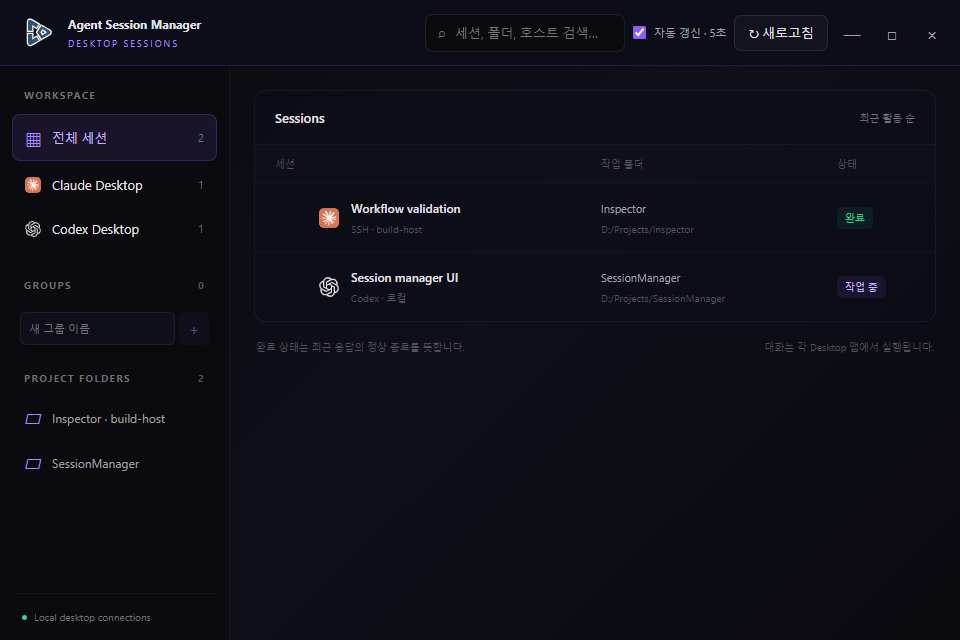
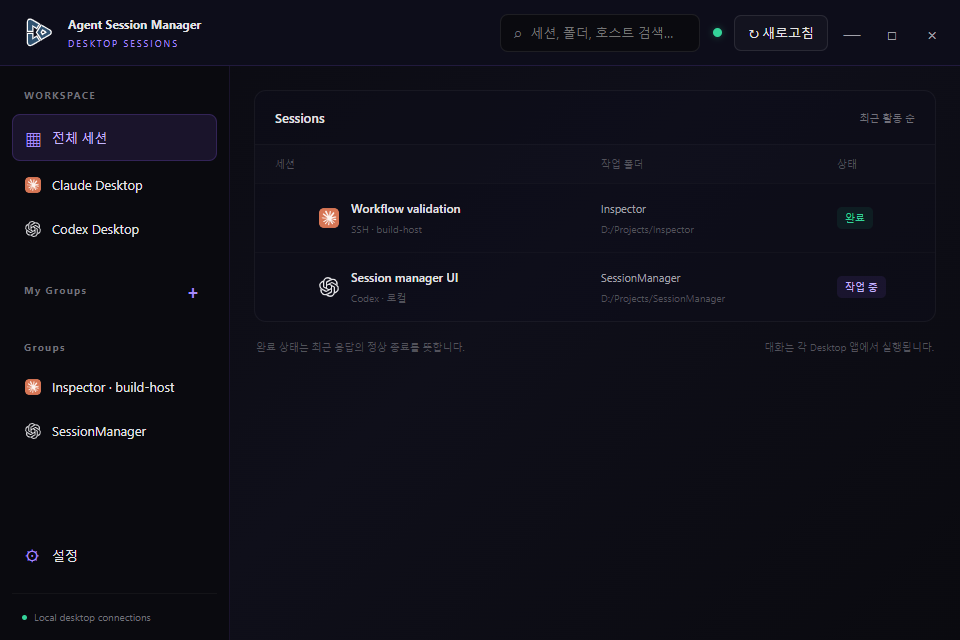
feat(desktop): add refresh settings and independent status LED

diff --git a/frontend/src/DesktopApp.svelte b/frontend/src/DesktopApp.svelte
@@ -30,9 +30,16 @@
   let groupRevision = 0;
   let menuElement: HTMLDivElement;
   let loading = false;
+  let manualRefreshing = false;
   let opening = false;
   let activityLoading = { claude: false, codex: false };
   let autoRefresh = true;
+  let refreshIntervalSeconds = 5;
+  let showSettings = false;
+  let settingsError = '';
+  let mounted = false;
+  let refreshTimer: ReturnType<typeof setInterval> | undefined;
+  const refreshSettingsKey = 'desktop-session-manager.refresh-settings';
   let activities: Record<string, Activity> = {};
   let now = Date.now();
   let groupName = '';
@@ -52,6 +59,24 @@
     return host.go.main.App.Call({ action, ...payload });
   }
 
+  function saveRefreshSettings() {
+    try {
+      localStorage.setItem(refreshSettingsKey, JSON.stringify({ autoRefresh, refreshIntervalSeconds }));
+      settingsError = '';
+    } catch { settingsError = '설정을 저장하지 못했습니다. 현재 창에는 적용되지만 앱을 다시 열면 유지되지 않을 수 있습니다.'; }
+  }
+
+  function updateRefreshInterval(input: HTMLInputElement) {
+    if (!input.reportValidity()) return;
+    refreshIntervalSeconds = input.valueAsNumber;
+    saveRefreshSettings();
+  }
+
+  function configureRefresh(enabled: boolean, seconds: number) {
+    clearInterval(refreshTimer);
+    refreshTimer = enabled ? setInterval(() => void refresh(), seconds * 1000) : undefined;
+  }
+
   function activity(session: Session, timestamp: number): Activity {
     const observed = activities[session.key];
     if (!observed || timestamp / 1000 - observed.observed_at > 15) return { state: 'unknown', detail: '아직 상태를 확인하지 않았거나 마지막 관찰이 15초 이상 지연되었습니다.', observed_at: 0 };
@@ -69,9 +94,10 @@
     finally { activityLoading = { ...activityLoading, [provider]: false }; }
   }
 
-  async function refresh() {
+  async function refresh(manual = false) {
     if (loading) return;
     loading = true;
+    manualRefreshing = manual;
     const revision = groupRevision;
     try {
       const data = await call<Snapshot>('snapshot');
@@ -85,7 +111,7 @@
       void refreshActivities('claude');
       void refreshActivities('codex');
     } catch (failure) { refreshError = `목록 조회 실패: ${String(failure)}`; }
-    finally { loading = false; }
+    finally { loading = false; manualRefreshing = false; }
   }
 
   async function openSession(session: Session) {
@@ -160,7 +186,7 @@
   function updateGroups(updated: Group[]) { groupRevision += 1; groups = updated; }
 
   function chooseGroup(group: GroupView) {
-    scope = group.id; selectedKey = '';
+    scope = group.id; selectedKey = ''; showSettings = false;
     if (!group.automatic) groupEditName = group.name;
   }
 
@@ -222,12 +248,20 @@
   }).map(session => session.key));
   $: if (query !== lastQuery || scope !== lastScope) { lastQuery = query; lastScope = scope; searchCollapsed = new Set(); }
   $: rows = sessionTreeRows(tree, scopedKeys, query, expandedKeys, searchCollapsed, projectNames);
+  $: refreshFailed = !!refreshError || !!groupError || !!activityErrors.claude || !!activityErrors.codex || warnings.length > 0;
+  $: refreshStatus = refreshFailed ? '자동 갱신 오류' : '자동 갱신 정상';
+  $: if (mounted) configureRefresh(autoRefresh, refreshIntervalSeconds);
 
   onMount(() => {
+    try {
+      const saved = JSON.parse(localStorage.getItem(refreshSettingsKey) || 'null');
+      if (typeof saved?.autoRefresh === 'boolean') autoRefresh = saved.autoRefresh;
+      if (Number.isInteger(saved?.refreshIntervalSeconds) && saved.refreshIntervalSeconds >= 1 && saved.refreshIntervalSeconds <= 3600) refreshIntervalSeconds = saved.refreshIntervalSeconds;
+    } catch { /* 저장된 설정을 읽지 못하면 기본값을 사용한다. */ }
+    mounted = true;
     void refresh();
     const timer = setInterval(() => { now = Date.now(); }, 1000);
-    const refreshTimer = setInterval(() => { if (autoRefresh) void refresh(); }, 5000);
-    return () => { clearInterval(timer); clearInterval(refreshTimer); };
+    return () => { mounted = false; clearInterval(timer); clearInterval(refreshTimer); };
   });
 </script>
 
@@ -244,8 +278,8 @@
     <div class="brand"><img src={logo} alt="Agent Session Manager" /><div><strong>Agent Session Manager</strong><span>DESKTOP SESSIONS</span></div></div>
     <div class="header-tools" style="--wails-draggable:no-drag">
       <label class="search"><span>⌕</span><input aria-label="세션 검색" bind:value={query} placeholder="세션, 폴더, 호스트 검색…" /></label>
-      <label class="auto-refresh"><input type="checkbox" bind:checked={autoRefresh} /> 자동 갱신 · 5초</label>
-      <button class="refresh" on:click={refresh} disabled={loading}>{loading ? '조회 중…' : '↻ 새로고침'}</button>
+      <span class="refresh-indicator">{#if autoRefresh}<span class="refresh-led" class:failed={refreshFailed} role="img" aria-label={refreshStatus} title={refreshStatus}></span>{/if}</span>
+      <button class="refresh" on:click={() => refresh(true)} disabled={manualRefreshing}>↻ 새로고침</button>
       <button class="window-button" aria-label="최소화" on:click={WindowMinimise}>—</button>
       <button class="window-button" aria-label="최대화" on:click={WindowToggleMaximise}>□</button>
       <button class="window-button close" aria-label="닫기" on:click={Quit}>×</button>
@@ -256,7 +290,7 @@
     <aside>
       <div class="sidebar-label">WORKSPACE</div>
       {#each [['all', '전체 세션'], ['claude', 'Claude Desktop'], ['codex', 'Codex Desktop']] as [id, name]}
-        <button class="nav-row" class:active={scope === id} on:click={() => { scope = id; selectedKey = ''; }}>
+        <button class="nav-row" class:active={!showSettings && scope === id} on:click={() => { scope = id; selectedKey = ''; showSettings = false; }}>
           {#if id === 'all'}<span class="grid-icon">▦</span>{:else}<AgentIcon agent={id} size="sm" />{/if}
           <span>{name}</span>
         </button>
@@ -275,7 +309,7 @@
           {/if}
           <div class="groups-list">
             {#each sectionGroups as group (group.id)}
-              <button class="nav-row group-row" class:active={scope === group.id} data-group-id={group.id} data-group-kind={group.automatic ? 'automatic' : 'user'}
+              <button class="nav-row group-row" class:active={!showSettings && scope === group.id} data-group-id={group.id} data-group-kind={group.automatic ? 'automatic' : 'user'}
                 title={`${group.name} · ${group.hint}`} on:click={() => chooseGroup(group)}
                 on:contextmenu={event => showSessionMenu(event, { kind: 'group', source: group.source })}
                 on:keydown={event => { if (event.key === 'ContextMenu' || (event.shiftKey && event.key === 'F10')) void showSessionMenu(event, { kind: 'group', source: group.source }); }} aria-haspopup="menu">
@@ -285,6 +319,7 @@
           </div>
         </section>
       {/each}
+      <button class="nav-row settings-nav" class:active={showSettings} on:click={() => { showSettings = true; closeSessionMenu(); }}><span class="grid-icon" aria-hidden="true">⚙</span><span>설정</span></button>
       <div class="sidebar-footer"><span class="connection-dot"></span> Local desktop connections</div>
     </aside>
 
@@ -295,6 +330,19 @@
       {#if groupError}<div role="alert" class="banner error">그룹 파일을 읽지 못했습니다. {groupError}</div>{/if}
       {#if warnings.length}<details class="banner warning"><summary>조회 알림 {warnings.length}개</summary>{#each warnings as warning}<p>{warning}</p>{/each}</details>{/if}
       {#if notice}<div role="status" class="banner success">{notice}</div>{/if}
+      {#if showSettings}
+        <section class="settings-panel" aria-labelledby="settings-title">
+          <h2 id="settings-title">설정</h2>
+          <p class="settings-description">자동 갱신 설정은 변경 즉시 적용됩니다.</p>
+          {#if settingsError}<div role="alert" class="banner error">{settingsError}</div>{/if}
+          <div class="settings-card">
+            <h3>자동 갱신</h3>
+            <label class="settings-row" for="auto-refresh"><span>자동 갱신 사용<small>세션 목록과 실행 상태를 주기적으로 갱신합니다.</small></span><input id="auto-refresh" type="checkbox" checked={autoRefresh} on:change={event => { autoRefresh = event.currentTarget.checked; saveRefreshSettings(); }} /></label>
+            <div class="settings-row"><label for="refresh-interval">자동 갱신 주기<small>1~3600초 사이의 정수로 설정합니다.</small></label><div class="interval-input"><input id="refresh-interval" type="number" min="1" max="3600" step="1" required value={refreshIntervalSeconds} on:change={event => updateRefreshInterval(event.currentTarget)} /><span>초</span></div></div>
+            <p class="settings-hint">자동 갱신을 켜면 상단 LED가 초록색으로 유지되며, 조회 오류가 발생하면 빨간색으로 표시됩니다.</p>
+          </div>
+        </section>
+      {:else}
       {#if selectedGroup && !selected}
         <h2 class="selected-group-name">{selectedGroup.name}</h2>
         <form class="group-tools" on:submit|preventDefault={() => groupAction('rename-group', { id: selectedGroup.id, name: groupEditName })}>
@@ -369,6 +417,7 @@
         </section>
       {/if}
       <footer>{activityLoading.claude || activityLoading.codex ? '실행 상태 확인 중…' : '완료 상태는 최근 응답의 정상 종료를 뜻합니다.'}<span>대화는 각 Desktop 앱에서 실행됩니다.</span></footer>
+      {/if}
     </main>
   </div>
   {#if sessionMenu}
@@ -397,7 +446,13 @@
   .new-group { display:flex; margin:8px 8px 0; gap:4px; } .new-group input { width:100%; border:1px solid #ffffff10; border-radius:6px; background:var(--bg-sunken); padding:8px; font-size:11px; } .new-group button { background:rgba(var(--accent-rgb),.12); border:0; border-radius:6px; color:var(--accent-light); padding:0 8px; flex-shrink:0; } summary { cursor:pointer; } .sidebar-footer { margin-top:auto; padding:16px 10px 4px; border-top:1px solid #ffffff0a; color:#71717a; font-size:10px; display:flex; align-items:center; gap:7px; } .connection-dot { width:5px; height:5px; border-radius:50%; background:#34d399; }
   .selected-group-name { margin:0 0 14px; font-size:18px; line-height:1.5; overflow-wrap:anywhere; }
   .group-tools { display:flex; gap:8px; margin-bottom:18px; } .group-tools input { flex:1; min-width:0; background:var(--bg-raised); border:1px solid #ffffff18; padding:8px 12px; border-radius:7px; } .group-tools button,.warning button { background:#ffffff06; border:1px solid #ffffff18; padding:8px 12px; border-radius:7px; } .warning button { margin:8px 0 0 8px; }
-  main { flex:1; min-width:0; overflow-y:auto; padding:32px 34px 16px; } .auto-refresh { display:flex; align-items:center; gap:8px; color:#a1a1aa; font-size:11px; white-space:nowrap; } input[type=checkbox] { accent-color:var(--accent); }
+  main { flex:1; min-width:0; overflow-y:auto; padding:32px 34px 16px; } input[type=checkbox] { accent-color:var(--accent); }
+  .refresh-indicator { display:flex; align-items:center; justify-content:center; width:18px; flex-shrink:0; } .refresh-led { width:9px; height:9px; border-radius:50%; background:#34d399; box-shadow:0 0 7px #34d39966; } .refresh-led.failed { background:#ef4444; box-shadow:0 0 7px #ef444466; }
+  .settings-nav { margin-top:auto; } .settings-nav + .sidebar-footer { margin-top:12px; }
+  .settings-panel { max-width:720px; } .settings-panel h2 { margin:0; font-size:22px; } .settings-description { color:#a1a1aa; margin:10px 0 24px; font-size:12px; }
+  .settings-card { padding:24px; border:1px solid #ffffff12; border-radius:12px; background:rgba(var(--bg-base-rgb),.42); } .settings-card h3 { margin:0 0 8px; font-size:14px; }
+  .settings-row { display:flex; align-items:center; justify-content:space-between; gap:24px; padding:20px 0; border-bottom:1px solid #ffffff0a; } .settings-row small { display:block; margin-top:7px; font-size:11px; color:#a1a1aa; } .settings-row input[type=checkbox] { width:18px; height:18px; flex-shrink:0; cursor:pointer; }
+  .interval-input { display:flex; align-items:center; gap:8px; color:#a1a1aa; } .interval-input input { width:88px; padding:8px 10px; background:var(--bg-sunken); border:1px solid #ffffff20; border-radius:6px; } .interval-input input:invalid { border-color:#ef4444; } .settings-hint { margin:18px 0 0; font-size:11px; line-height:1.7; color:#a1a1aa; }
   .session-panel { border:1px solid #ffffff0c; border-radius:12px; overflow:hidden; background:rgba(var(--bg-base-rgb),.42); } .panel-heading { display:flex; justify-content:space-between; align-items:center; padding:18px 20px; border-bottom:1px solid #ffffff0a; } .panel-heading h2 { font-size:13px; font-weight:600; } .panel-heading > span { font-size:10px; color:#71717a; }
   .nav-row .project-root-hint { display:block; overflow:hidden; text-overflow:ellipsis; font-size:10px; margin-top:5px; }
   .group-name { display:block; overflow:hidden; text-overflow:ellipsis; } .group-row :global(.agent-icon) { flex-shrink:0; }

diff --git a/docs/ai/tasks/refresh-settings/HANDOFF.md b/docs/ai/tasks/refresh-settings/HANDOFF.md
@@ -1,0 +1,40 @@
+# 설정 화면과 자동갱신 표시 — 완료
+
+- 날짜: 2026-11-02 (Asia/Seoul)
+- 스킬: software-change-workflow, verify-triage (가상 시계 초기화 순서 진단)
+- 상태: Step 1 구현·검증·자체 검토·Windows 빌드 완료. 이번 범위만 scoped commit으로 기록한다.
+- 대상: `D:/repos/intellian/Session_Manager_Desktop`.
+
+## 구현
+
+- `frontend/src/DesktopApp.svelte`: 사이드바 하단 설정 화면. 자동 갱신 사용 여부와 정수 1~3600초 주기를 적용하고 localStorage에 저장/복원한다. 기본값은 기존과 같은 켜짐/5초다.
+- 설정 변경 시 이전 타이머를 해제하고 하나만 설치한다. 비활성화/컴포넌트 해제 시 타이머를 해제한다.
+- 새로고침 버튼은 기존 타이틀바 위치와 수동 조회를 유지한다. 문구를 고정하고 수동 조회 중에만 비활성화하므로 자동 조회가 버튼의 문구·밝기를 바꾸지 않는다. 조회 중복 방지는 유지한다.
+- 독립 LED는 자동 갱신을 켜면 표시한다. 오류가 없으면 조회 중에도 초록색을 유지하고, 목록/그룹/Claude/Codex 상태 조회 오류 또는 snapshot 경고가 있으면 빨간색이다. 일부 오류가 남아 있으면 빨간색을 유지하고 모두 해소되면 초록색으로 돌아온다. 자동 갱신을 끄면 숨긴다. tooltip과 접근성 이름을 제공한다.
+- `desktop/README.md`: 설정 위치, 저장, LED 및 기존 15초 관찰 만료 정책을 설명한다.
+- `frontend/tests/desktop/sessions.spec.mjs`: 신규 10개 검증과 변경된 설정 접근/사이드바 기대값을 반영한다. bridge 모의 오류를 주입한다.
+- 캡처: `verification/desktop-refresh-settings-minimum.png`, `desktop-refresh-error.png` 추가. 대표 기존 화면 `desktop-ui-preview.png`, `desktop-ui-minimum.png` 갱신. 다른 자동 생성 캡처는 이번 범위에 포함하지 않는다.
+
+## 검증
+
+- `npm run check`: 통과. 오류 0개, 기존 경고 111개/29개 파일. DesktopApp 신규 진단 없음.
+- `npx playwright test --config playwright.desktop.config.mjs`: 최종 54개 모두 통과 (32.7초).
+- `scripts/build-desktop.ps1`: 통과. `desktop/build/bin/desktop-session-manager.exe` 갱신.
+- `git diff --check`: 통과.
+- 960×640 설정 화면과 1380×880 오류 LED 화면을 직접 확인했다. 설정 항목/입력/창 버튼이 겹치지 않으며 LED가 버튼과 분리되어 표시된다.
+- 설정 주기 변경·중복 타이머 방지·끄기/켜기·수동 새로고침·설정 저장/복원·잘못된 주기·5종 조회 오류/복구·제공자 부분 복구를 검증했다. 기존 검색/그룹/계층/대화 열기 검증도 통과했다.
+
+## 초기 실패와 해결
+
+- 처음에는 새 사이드바 설정 항목과 아이콘이 포함된 접근성 이름을 기존 테스트 기대값에 반영하지 못해 실패했다. 설정 화면 경유와 정확한 항목 목록으로 수정했다.
+- 초기 시계 테스트는 앱 타이머 생성 후 Playwright 가상 시계를 설치해 실제/가상 타이머가 혼재했다. 설치된 Playwright 타입 문서의 권고대로 페이지 탐색 전 시계를 설치하고 로딩 후 멈추도록 테스트 초기화를 수정했다. 제품 타이머 코드를 바꾸지 않고 관련 7개가 모두 통과한 뒤 전체 54개를 재검증했다.
+- 검증 도중 소스 변경/빌드가 개발 서버를 갱신할 가능성도 제거하도록 최종 브라우저 실행은 소스 수정·빌드와 분리했다.
+
+## 자체 검토 및 제한
+
+- 승인: 요청 범위에 맞는 단일 화면 변경이며 backend API, 공용 Python/Tk, 원본 터미널 앱 및 의존성 변경 없음.
+- LED는 조회 건강 상태를 뜻한다. 개별 대화의 작업 실패 상태와는 구분한다.
+- 기존 관찰 상태의 15초 만료는 유지한다. 긴 주기를 선택하면 다음 조회 전 확인 불가로 표시될 수 있으며 README에 기록했다.
+- 브라우저 검증은 모의 bridge를 사용했다. 실제 Claude/Codex 앱에 대화를 열거나 실행 중인 Desktop Manager를 종료하지 않았다.
+- 기존 미추적 `verification/desktop-replacement-backup/`은 변경/커밋하지 않는다.
+- 남은 구현 작업 없음. 빌드된 앱을 재실행하면 적용된다.

diff --git a/docs/ai/tasks/refresh-settings/PLAN.md b/docs/ai/tasks/refresh-settings/PLAN.md
@@ -1,0 +1,36 @@
+# 설정 화면과 자동갱신 표시
+
+- 날짜: 2026-11-02 (Asia/Seoul)
+- 스킬: software-change-workflow
+- 위험도: Medium. Desktop 단일 화면의 설정·타이머 변경이며 backend 계약은 유지한다.
+- 사용자 요청으로 설정 화면·주기·자동갱신 여부 이동과 LED 구현이 승인된 범위다.
+
+## 확인한 사실
+
+- 대상은 `frontend/src/DesktopApp.svelte`다. 타이틀바 체크박스로 자동갱신을 켜고 끄며 주기는 5초로 고정되어 있다.
+- snapshot 성공 후 Claude/Codex 상태를 독립 조회한다. 목록, 그룹, 상태 조회 오류와 snapshot 경고를 이미 보관한다.
+- 새로고침 버튼은 검색 오른쪽, 창 제어 버튼 왼쪽에 있다.
+- 기존 Desktop Playwright 회귀 검증과 Windows 빌드 스크립트가 있다.
+
+## 가정과 결정
+
+- 사이드바 설정 메뉴로 설정 화면을 연다. 기존 목록 선택과 검색을 보존하며 돌아올 수 있다.
+- 사용 여부와 초 단위 주기는 즉시 적용하고 localStorage에 저장한다. 기본값은 기존과 같은 켜짐/5초다. 입력은 정수 1~3600초로 제한한다.
+- LED는 자동갱신을 끄면 숨긴다. 켠 상태에서는 초록색을 유지하고 목록/그룹/제공자 상태 조회 오류 또는 snapshot 경고가 있으면 빨간색이다. 해당 오류가 해소되면 초록색으로 돌아온다. 조회 중에는 깜빡이지 않는다.
+- 새로고침 버튼은 현재 위치와 수동 조회를 유지하며 문구를 고정한다.
+- 상태 관찰의 기존 15초 만료 정책은 유지한다. 세션 자체의 작업 오류는 조회 실패와 별개다.
+
+## Step 1 — 구현 및 검증
+
+- 제품 범위: DesktopApp.svelte, desktop/README.md. 관련 브라우저 검증과 본 작업 문서만 추가/수정한다.
+- 설정 페이지, 설정 저장/복원, 주기 재설정과 타이머 해제, 독립 LED를 구현한다.
+- 기존 자동갱신 체크박스 참조 테스트를 설정 페이지 경유로 변경한다.
+- 검증: 설정 켜기/끄기와 주기 적용/저장, 타이머 중복 방지, 오류 발생/부분 복구/전체 복구 LED, 새로고침의 고정 문구·수동 동작, 최소 창 크기를 Playwright로 확인한다.
+- 전체 Desktop Playwright, npm run check, scripts/build-desktop.ps1, git diff --check를 실행하고 화면 캡처를 확인한다.
+- 완료 기준: 위 요구사항 검증 통과와 Windows 실행 파일 빌드. 검증 후 이번 변경만 scoped commit으로 기록한다.
+
+## 위험 및 제외 범위
+
+- 중복 타이머/해제 누락: 가상 시계로 주기 변경과 비활성화를 검증한다.
+- 일부 조회만 성공했을 때 잘못 초록색 전환: 제공자별 오류를 합산하고 부분 복구 시나리오를 검증한다.
+- 기존 Python/Tk, 공용 Python 모듈, backend API, 원본 터미널 앱, 기존 미추적 백업은 변경하지 않는다.
